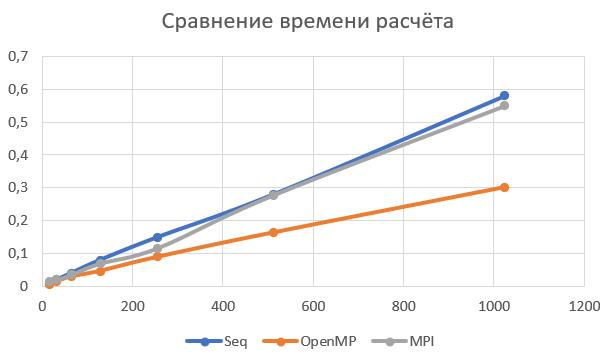
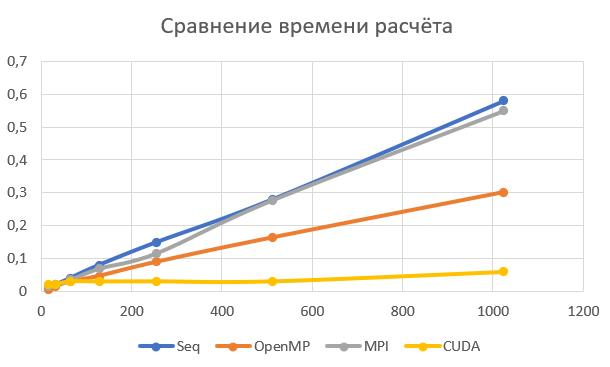
designupdate

diff --git a/readme.md b/readme.md
@@ -9,23 +9,29 @@
 Для передачи данных используется протокол TCP (Unix). При обнаружении подключения генератор отправляет нужное количество данных, разбивая их на фрагменты по 1 КБ. После получения всех данных клиент обрабатывает их и отсылает результат обратно вместе с временем выполнения расчётов.
 
 ## Описание логики распараллеливания
+
 ### OpenMP
 Вычисления разделяются по группам из М-элементов. Для каждой группы среднее вычисляется отдельно при помощи директивы `#pragma omp for`. Распределение групп по потокам не контролируется, оставляется на управление OpenMP.
 
 ### MPI
 Процесс-хост управляет получением данных, остальные ожидают. После того, как хост получил весь объём данных, через `MPI_Bcast` всем процессам рассылается общий размер данных. Далее каждый процесс исходя из своего номера вычисляет количество "блоков" по M элементов для собственной обработки (включая первый процесс). После обработки вектора результатов высылаются на хост, и он отправляет ответ на сервер.
 
+### CUDA
+После получения данных запускается ядро CUDA, состоящее из `N/M/1024` блоков по 1024 потоков каждый. Каждый поток обрабатывает свою группу из M элементов. При недостатке потоков один поток может вычислять несколько групп.
+
 ## Установка
 ```sh
 sudo apt-get install libomp-dev
 sudo apt-get install mpich
+#magicallly install cuda somehow
 ```
 
 ## Запуск
 Запуск производится из любой требуемой подпапки.
 ```sh
 make
-make host &
+make host
+# separate window
 make cli
 ```
 
